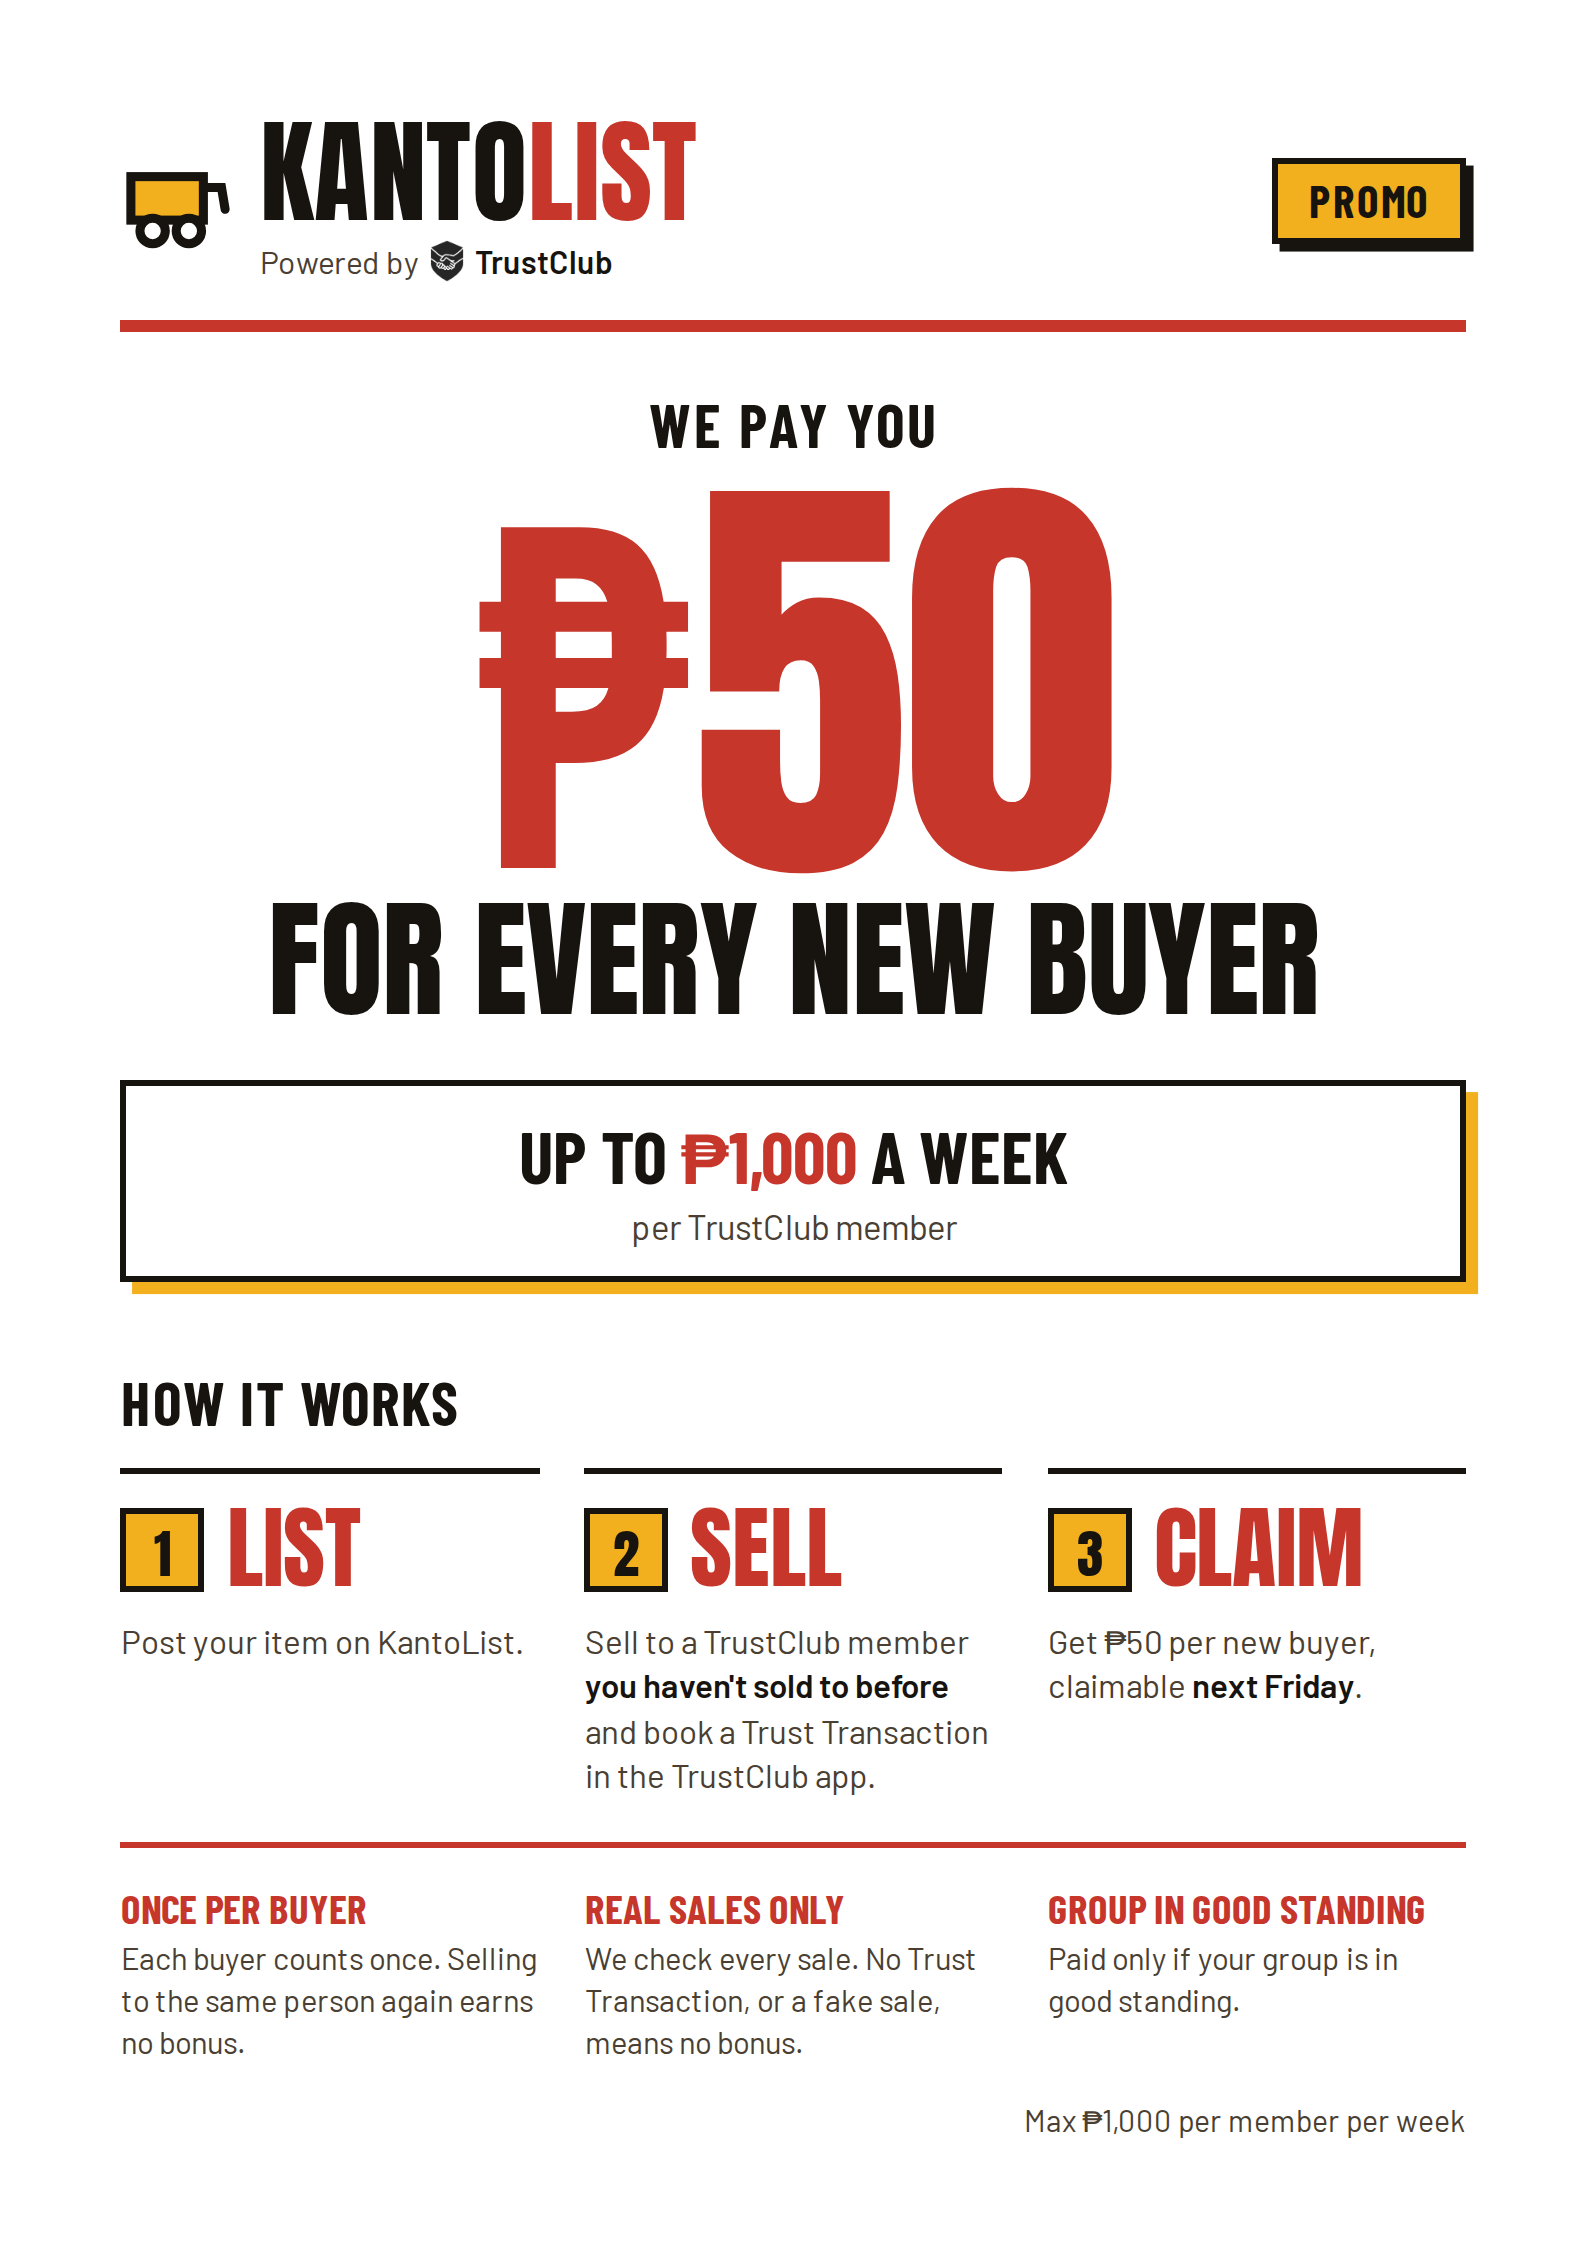
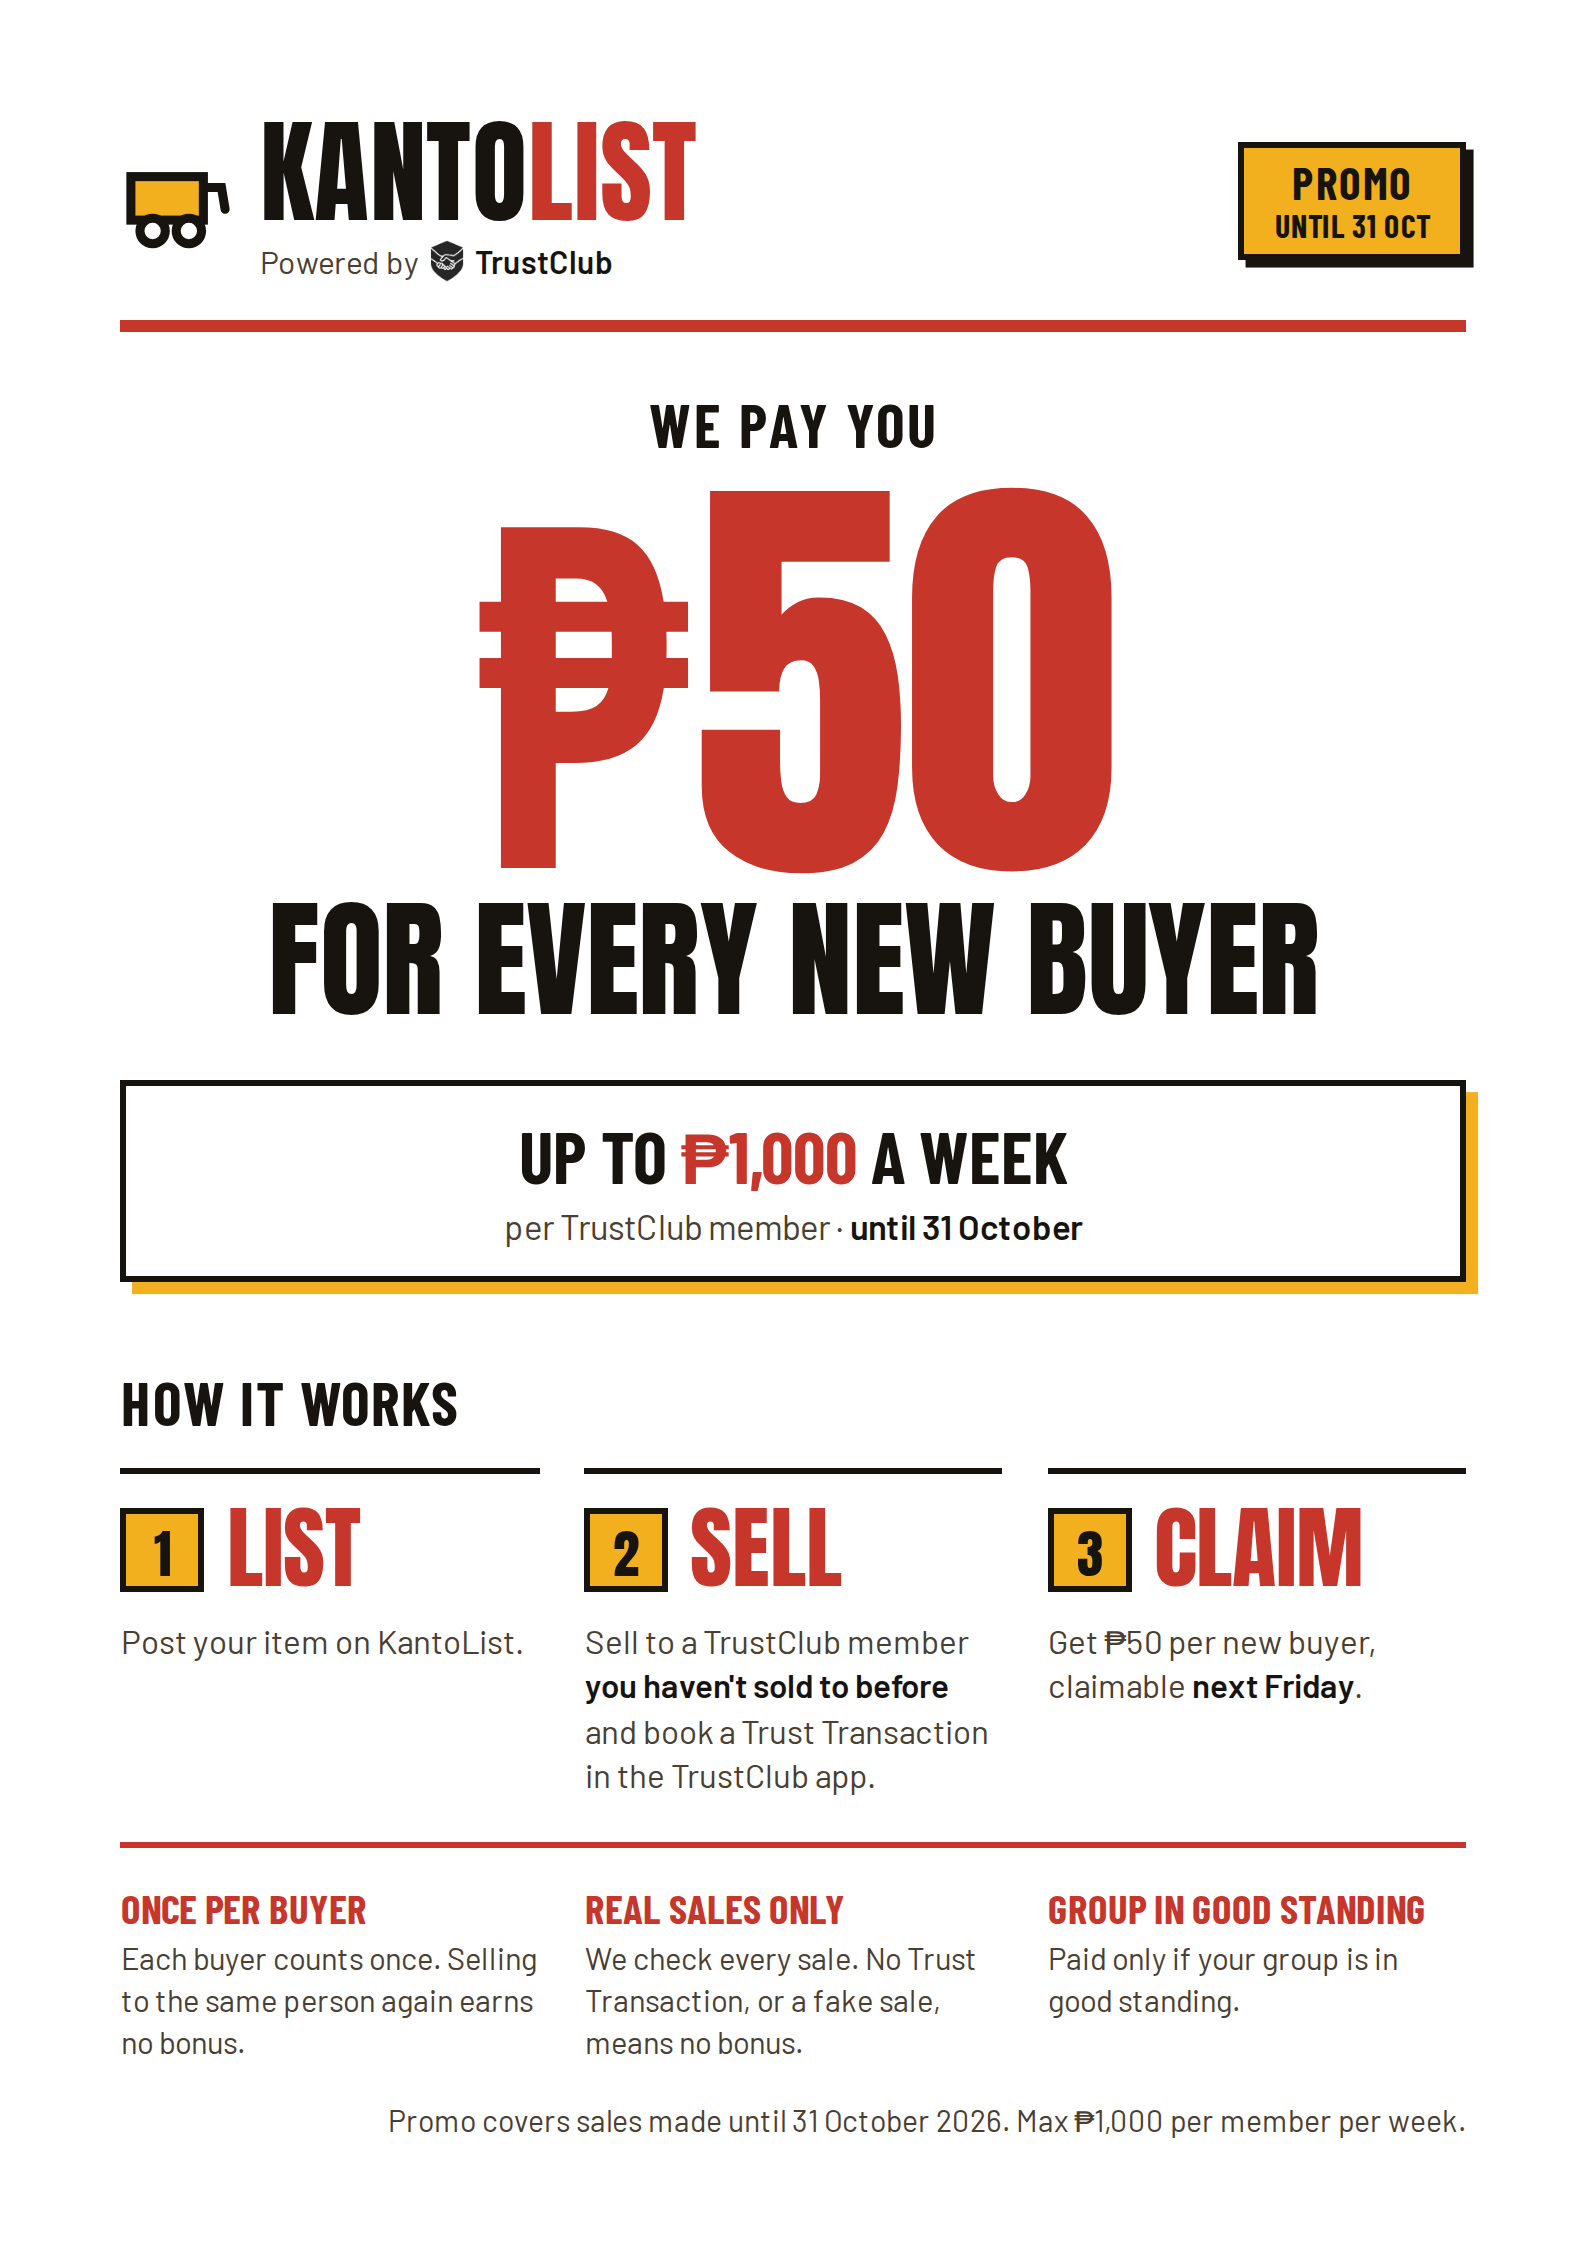
Flyer: run the promo until 31 October
Claude-Session: https://claude.ai/code/session_01T2zHHYc96xzAHMdnr65ePF

diff --git a/marketing/flyers/sale-bonus-a4.html b/marketing/flyers/sale-bonus-a4.html
@@ -45,6 +45,9 @@
 
   .cap { border: 1mm solid var(--ink); box-shadow: 1.6mm 1.6mm 0 var(--yellow); text-align: center; padding: 4mm 6mm; }
   .cap .label { font-size: 9.5mm; }
+  .tag { text-align: center; }
+  .tag small { display: block; font-size: 4.2mm; letter-spacing: .02em; }
+  .cap p b { color: var(--ink); font-weight: 600; }
   .cap .label em { font-style: normal; color: var(--red); }
   .cap p { margin: 1.5mm 0 0; font-size: 4.6mm; color: var(--muted); }
 
@@ -84,7 +87,7 @@
         <div class="powered"><span>Powered by</span><img src="TCLogo-IconOnly-StealthBlack-minpadding.png" alt=""><b>TrustClub</b></div>
       </div>
     </div>
-    <span class="tag label">Promo</span>
+    <span class="tag label">Promo<br><small>until 31 Oct</small></span>
   </header>
 
   <section class="hero">
@@ -95,7 +98,7 @@
 
   <section class="cap">
     <div class="label">Up to <em>₱1,000</em> a week</div>
-    <p>per TrustClub member</p>
+    <p>per TrustClub member · <b>until 31 October</b></p>
   </section>
 
   <h2>How it works</h2>
@@ -145,7 +148,7 @@
   </section>
 
   <footer>
-    <span>Max ₱1,000 per member per week</span>
+    <span>Promo covers sales made until 31 October 2026. Max ₱1,000 per member per week.</span>
   </footer>
 </div>
 </body>
